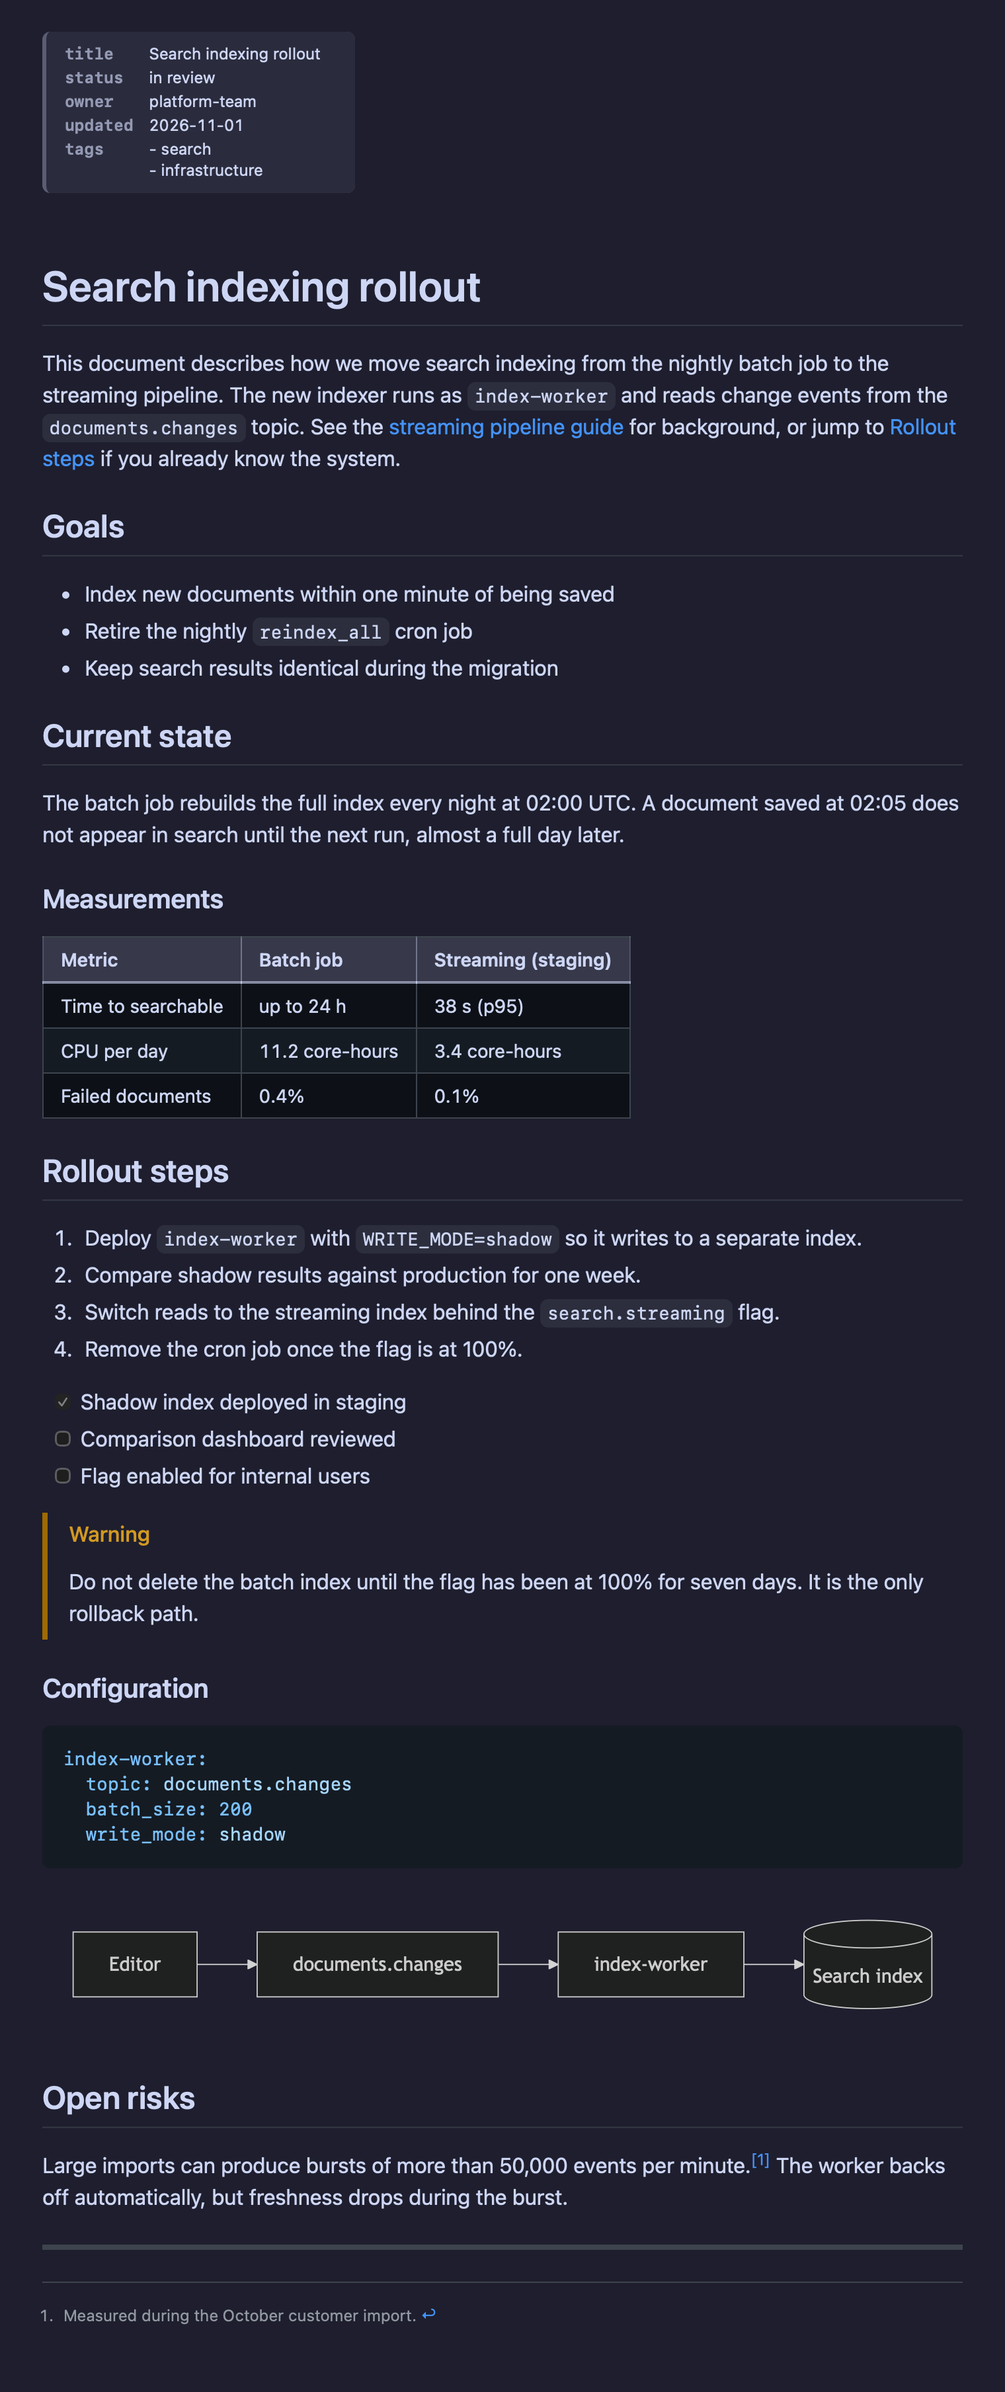
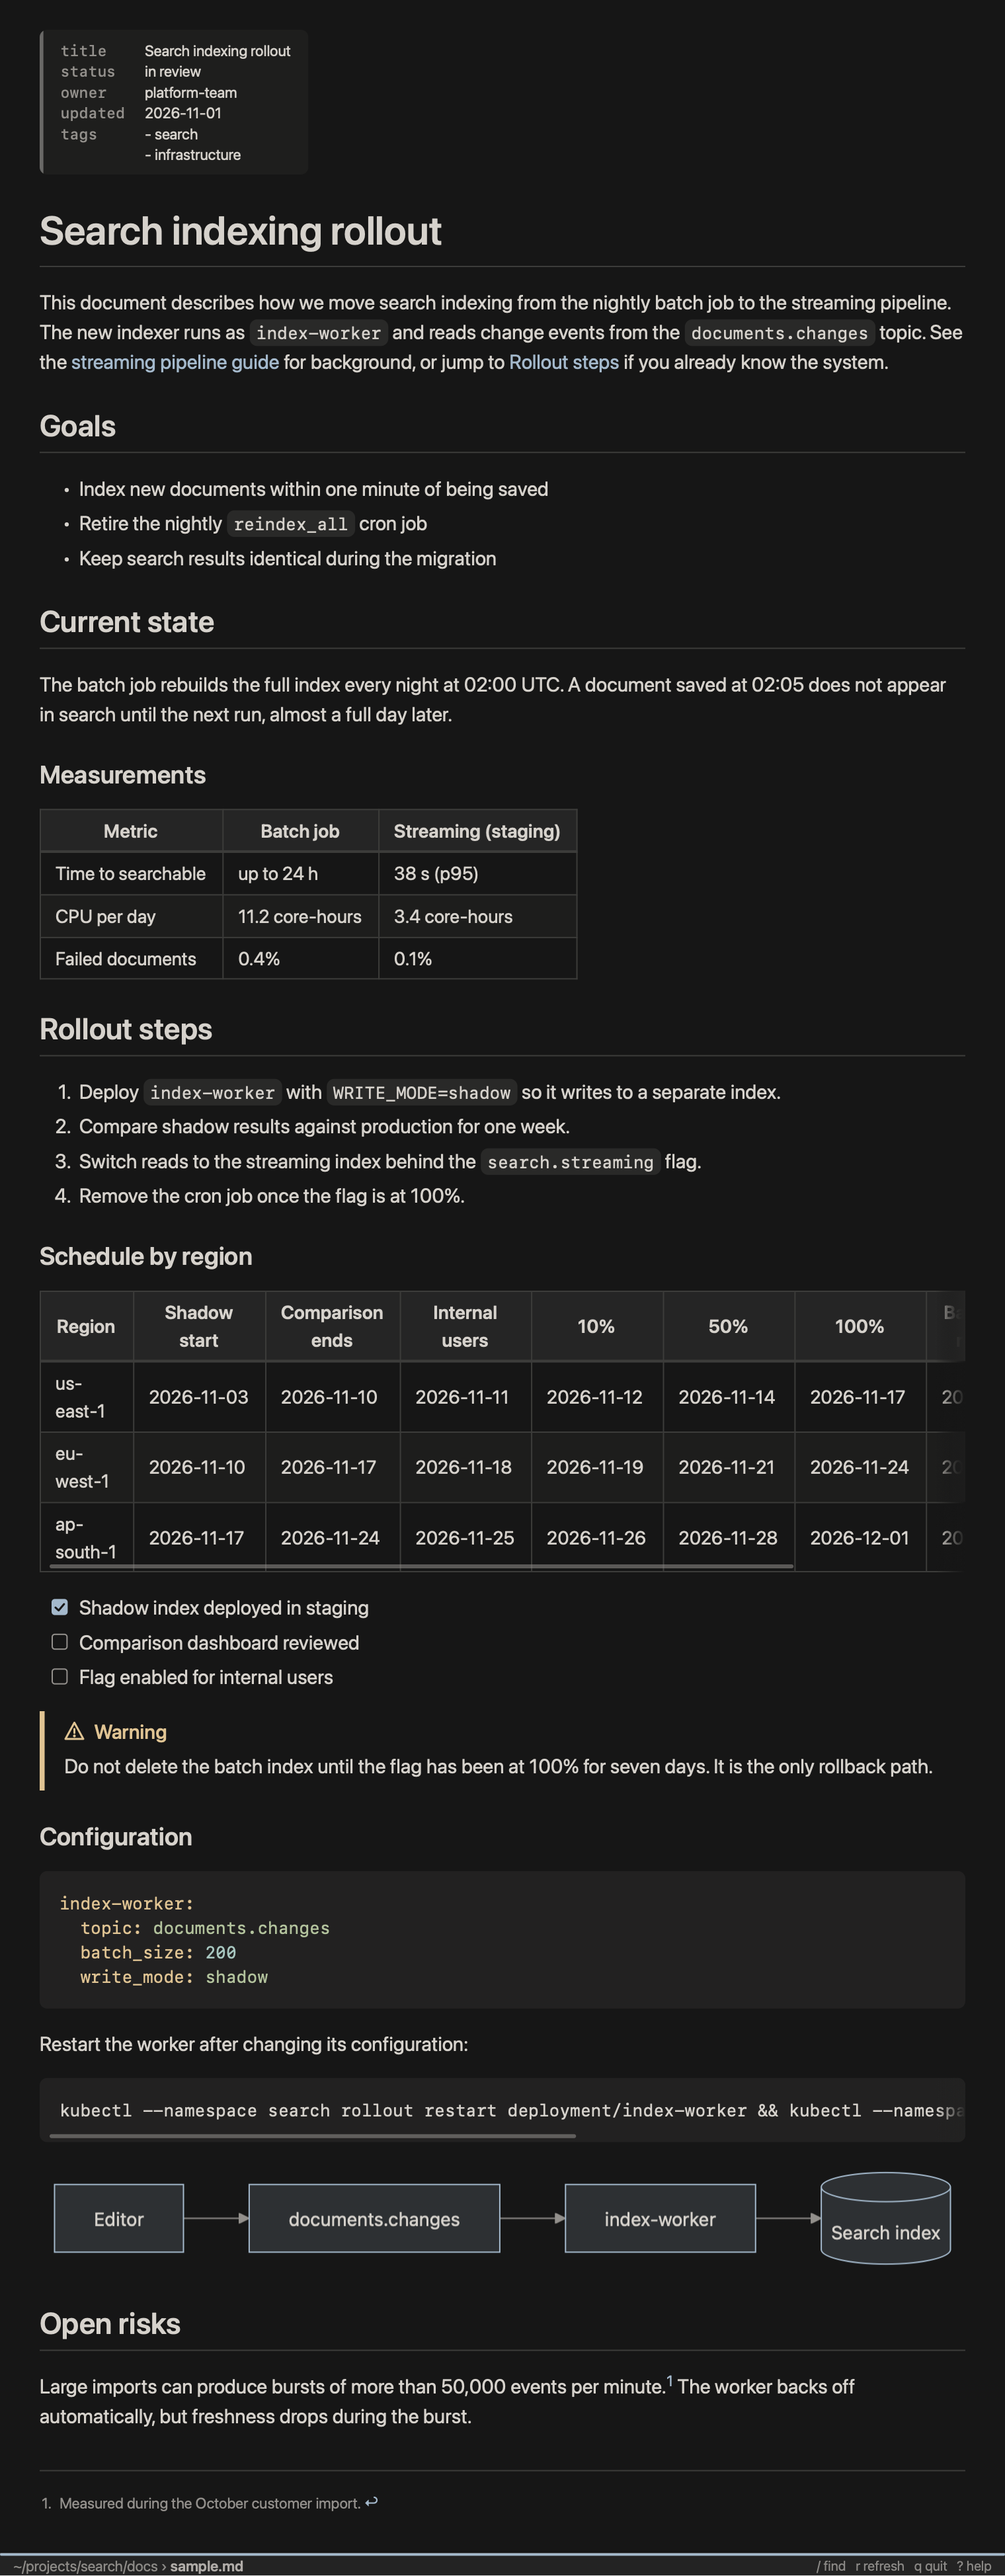
md-viewer: 0.2.0 sample and native screenshots
The sample gains a wide schedule table and a long command so the
screenshots show sideways scrolling. A gated test writes the README
images through the real rasterizer, with the status bar appended.

diff --git a/md-viewer/Tests/MDViewerRasterTests/ScreenshotTests.swift b/md-viewer/Tests/MDViewerRasterTests/ScreenshotTests.swift
@@ -1,0 +1,79 @@
+import CoreGraphics
+import Foundation
+import MDViewerCore
+import MDViewerDocument
+import MDViewerLayout
+import MDViewerMermaid
+import XCTest
+
+@testable import MDViewerRender
+
+final class ScreenshotTests: XCTestCase {
+  private let root = URL(fileURLWithPath: #filePath).deletingLastPathComponent()
+    .appendingPathComponent("../..").standardizedFileURL
+
+  @MainActor
+  func testWriteReadmeScreenshots() async throws {
+    try XCTSkipUnless(
+      ProcessInfo.processInfo.environment["MDVIEWER_SCREENSHOTS"] == "1", "set MDVIEWER_SCREENSHOTS=1 to write")
+    let review = root.appendingPathComponent(".build/review-images/task9-images")
+    try FileManager.default.createDirectory(at: review, withIntermediateDirectories: true)
+    let source = try String(contentsOf: root.appendingPathComponent("docs/sample.md"), encoding: .utf8)
+    let typography = Typography(bodySize: Typography.defaultBodySize, zoom: 1, backingScale: 2)
+    let prepared = PreparedDocument(markdown: source, typography: typography)
+    let highlights = highlightAll(prepared)
+    let width: CGFloat = 760 * 2
+    let statusHeight = StatusBar.height(cellPixelHeight: 34, backingScale: 2)
+    let palettes = themePalettes()
+    let mermaid = MermaidRenderer()
+    for (theme, name) in [("charcoal-atelier", "dark"), ("merino-light", "light")] {
+      let palette = try XCTUnwrap(palettes[theme])
+      let mermaidTheme = MermaidTheme(palette: palette)
+      let margin = typography.pixels(em: typography.pageMarginSide)
+      let columnWidth = (width - margin * 2) / typography.scale
+      for block in prepared.codeBlocks.values where block.isDiagram {
+        let diagram = await withCheckedContinuation { continuation in
+          mermaid.render(
+            MermaidRequest(code: block.code, theme: mermaidTheme, width: columnWidth, scale: typography.scale)
+          ) { continuation.resume(returning: $0) }
+        }
+        XCTAssertNil(diagram.failure)
+      }
+      let page = prepared.layout(
+        LayoutInput(
+          width: width, expandedDetails: prepared.initiallyExpandedDetails, prefersDark: palette.dark,
+          diagramSize: mermaid.sizeProvider(theme: mermaidTheme, width: columnWidth, scale: typography.scale)))
+      XCTAssertGreaterThanOrEqual(page.regions.filter { $0.maxOffset > 0 }.count, 2, "wide table and code scroll")
+      let rasterizer = Rasterizer(
+        layout: page, palette: palette,
+        assets: RenderAssets(
+          diagram: mermaid.imageProvider(theme: mermaidTheme, width: columnWidth, scale: typography.scale)),
+        highlights: highlights)
+      let height = page.height + statusHeight
+      let bitmap = try XCTUnwrap(RasterBitmap(width: Int(width), height: Int(height.rounded(.up))))
+      rasterizer.draw(CGRect(x: 0, y: 0, width: width, height: page.height), into: bitmap)
+      let status = StatusBarContent(
+        fileName: "sample.md", folder: "~/projects/search/docs", progress: ScrollProgress(start: 0, fraction: 1))
+      StatusBar(palette: palette, backingScale: 2).draw(
+        status, in: CGRect(x: 0, y: page.height, width: width, height: statusHeight), bitmap: bitmap)
+      let data = try XCTUnwrap(bitmap.pngData())
+      try data.write(to: root.appendingPathComponent("docs/preview-\(name).png"))
+      try data.write(to: review.appendingPathComponent("preview-\(name).png"))
+
+      let viewport = CGSize(width: width, height: 1400)
+      let crop = try XCTUnwrap(
+        rasterizer.renderViewport(
+          scrollY: 0, size: viewport, status: status.withProgress(page.height, viewport.height - statusHeight),
+          statusBarHeight: statusHeight))
+      try XCTUnwrap(crop.pngData()).write(to: review.appendingPathComponent("viewport-\(name).png"))
+    }
+  }
+}
+
+extension StatusBarContent {
+  fileprivate func withProgress(_ content: CGFloat, _ viewport: CGFloat) -> StatusBarContent {
+    var copy = self
+    copy.progress = ScrollProgress(offset: 0, viewport: viewport, content: content)
+    return copy
+  }
+}

diff --git a/md-viewer/Sources/MDViewerCore/Version.swift b/md-viewer/Sources/MDViewerCore/Version.swift
@@ -1,1 +1,1 @@
-public let mdViewerVersion = "0.1.3"
+public let mdViewerVersion = "0.2.0"

diff --git a/md-viewer/docs/sample.md b/md-viewer/docs/sample.md
@@ -37,6 +37,14 @@ The batch job rebuilds the full index every night at 02:00 UTC. A document saved
 3. Switch reads to the streaming index behind the `search.streaming` flag.
 4. Remove the cron job once the flag is at 100%.
 
+### Schedule by region
+
+| Region | Shadow start | Comparison ends | Internal users | 10% | 50% | 100% | Batch index removed | Owner |
+| --- | --- | --- | --- | --- | --- | --- | --- | --- |
+| us-east-1 | 2026-11-03 | 2026-11-10 | 2026-11-11 | 2026-11-12 | 2026-11-14 | 2026-11-17 | 2026-11-24 | platform-team |
+| eu-west-1 | 2026-11-10 | 2026-11-17 | 2026-11-18 | 2026-11-19 | 2026-11-21 | 2026-11-24 | 2026-12-01 | platform-team |
+| ap-south-1 | 2026-11-17 | 2026-11-24 | 2026-11-25 | 2026-11-26 | 2026-11-28 | 2026-12-01 | 2026-12-08 | search-oncall |
+
 - [x] Shadow index deployed in staging
 - [ ] Comparison dashboard reviewed
 - [ ] Flag enabled for internal users
@@ -51,6 +59,12 @@ index-worker:
   topic: documents.changes
   batch_size: 200
   write_mode: shadow
+```
+
+Restart the worker after changing its configuration:
+
+```sh
+kubectl --namespace search rollout restart deployment/index-worker && kubectl --namespace search rollout status deployment/index-worker --timeout=10m
 ```
 
 ```mermaid
